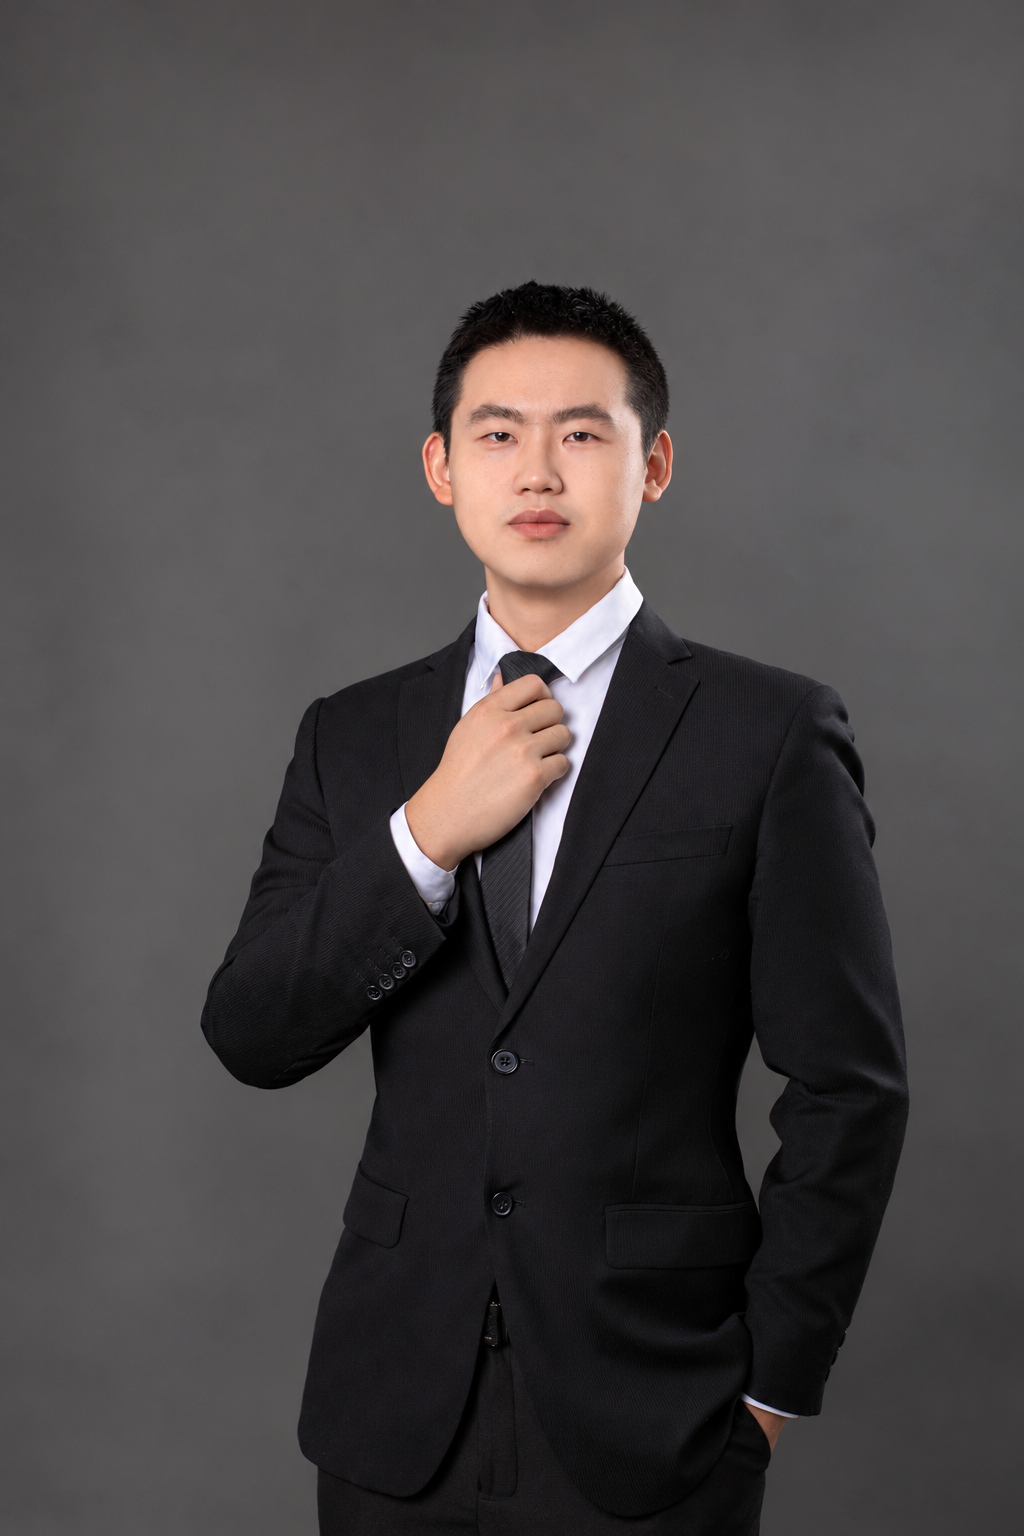
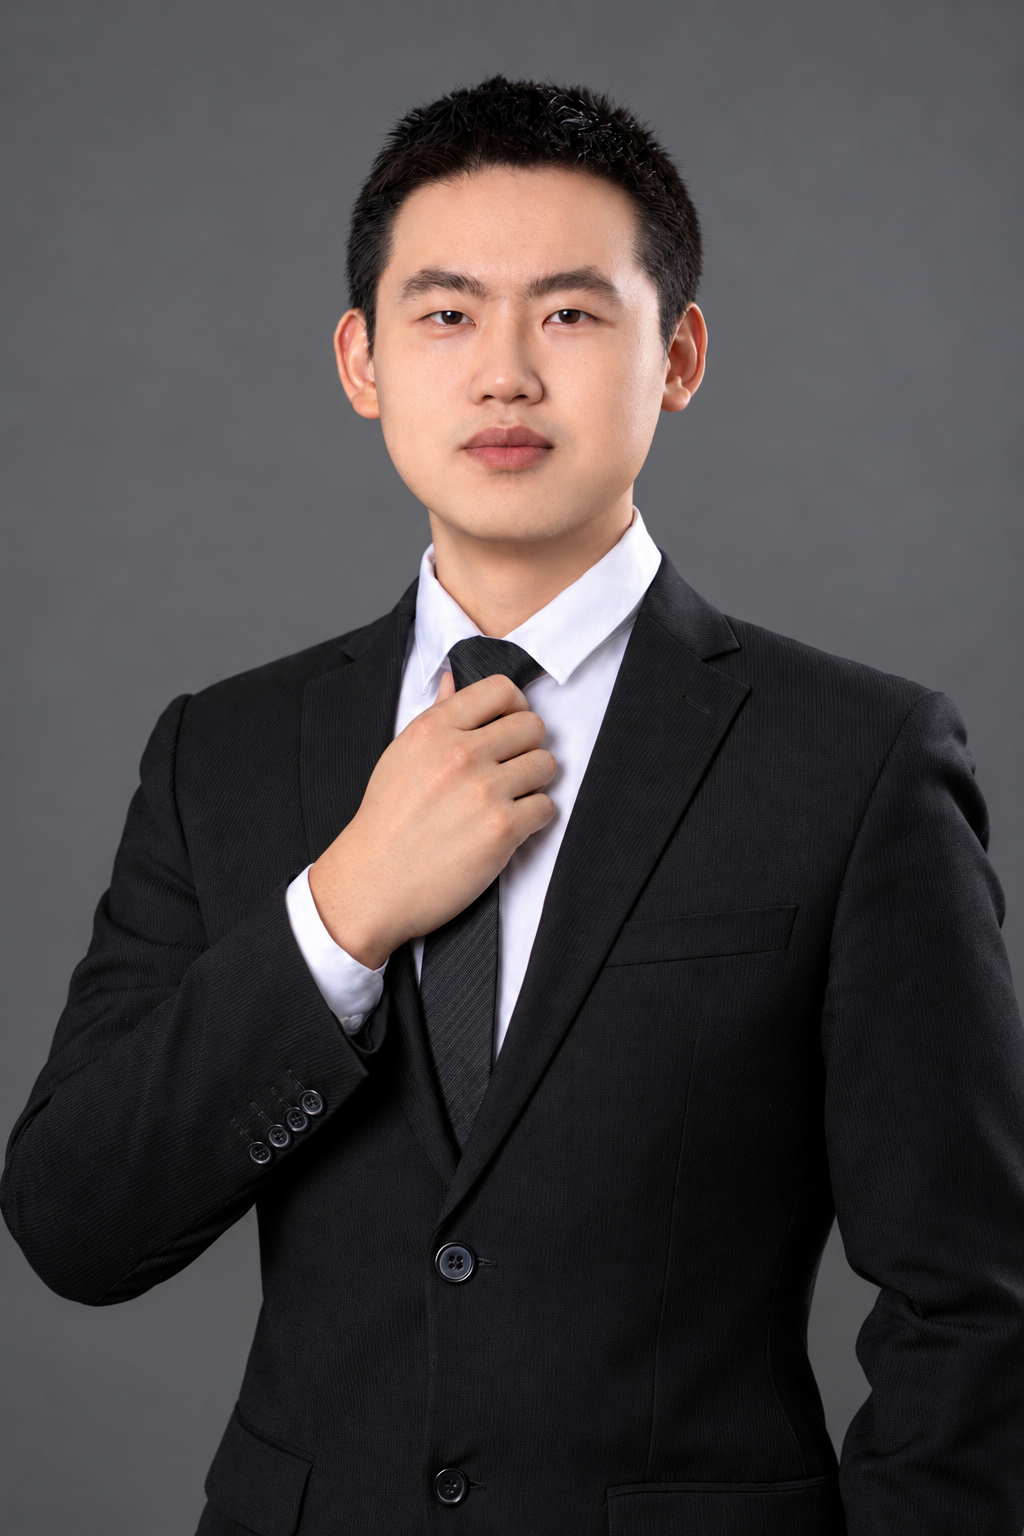
Refine profile portrait crop, eyes, and studio lighting

diff --git a/index.html b/index.html
@@ -55,7 +55,7 @@
           </div>
         </div>
         <figure class="portrait-wrap">
-          <img src="static/assets/img/photo.jpg?v=original-retouch-20261010" alt="Portrait of Donghe Chen" width="1024" height="1536">
+          <img src="static/assets/img/photo.jpg?v=social-crop-20261010" alt="Portrait of Donghe Chen" width="1024" height="1536">
         </figure>
       </div>
     </section>
